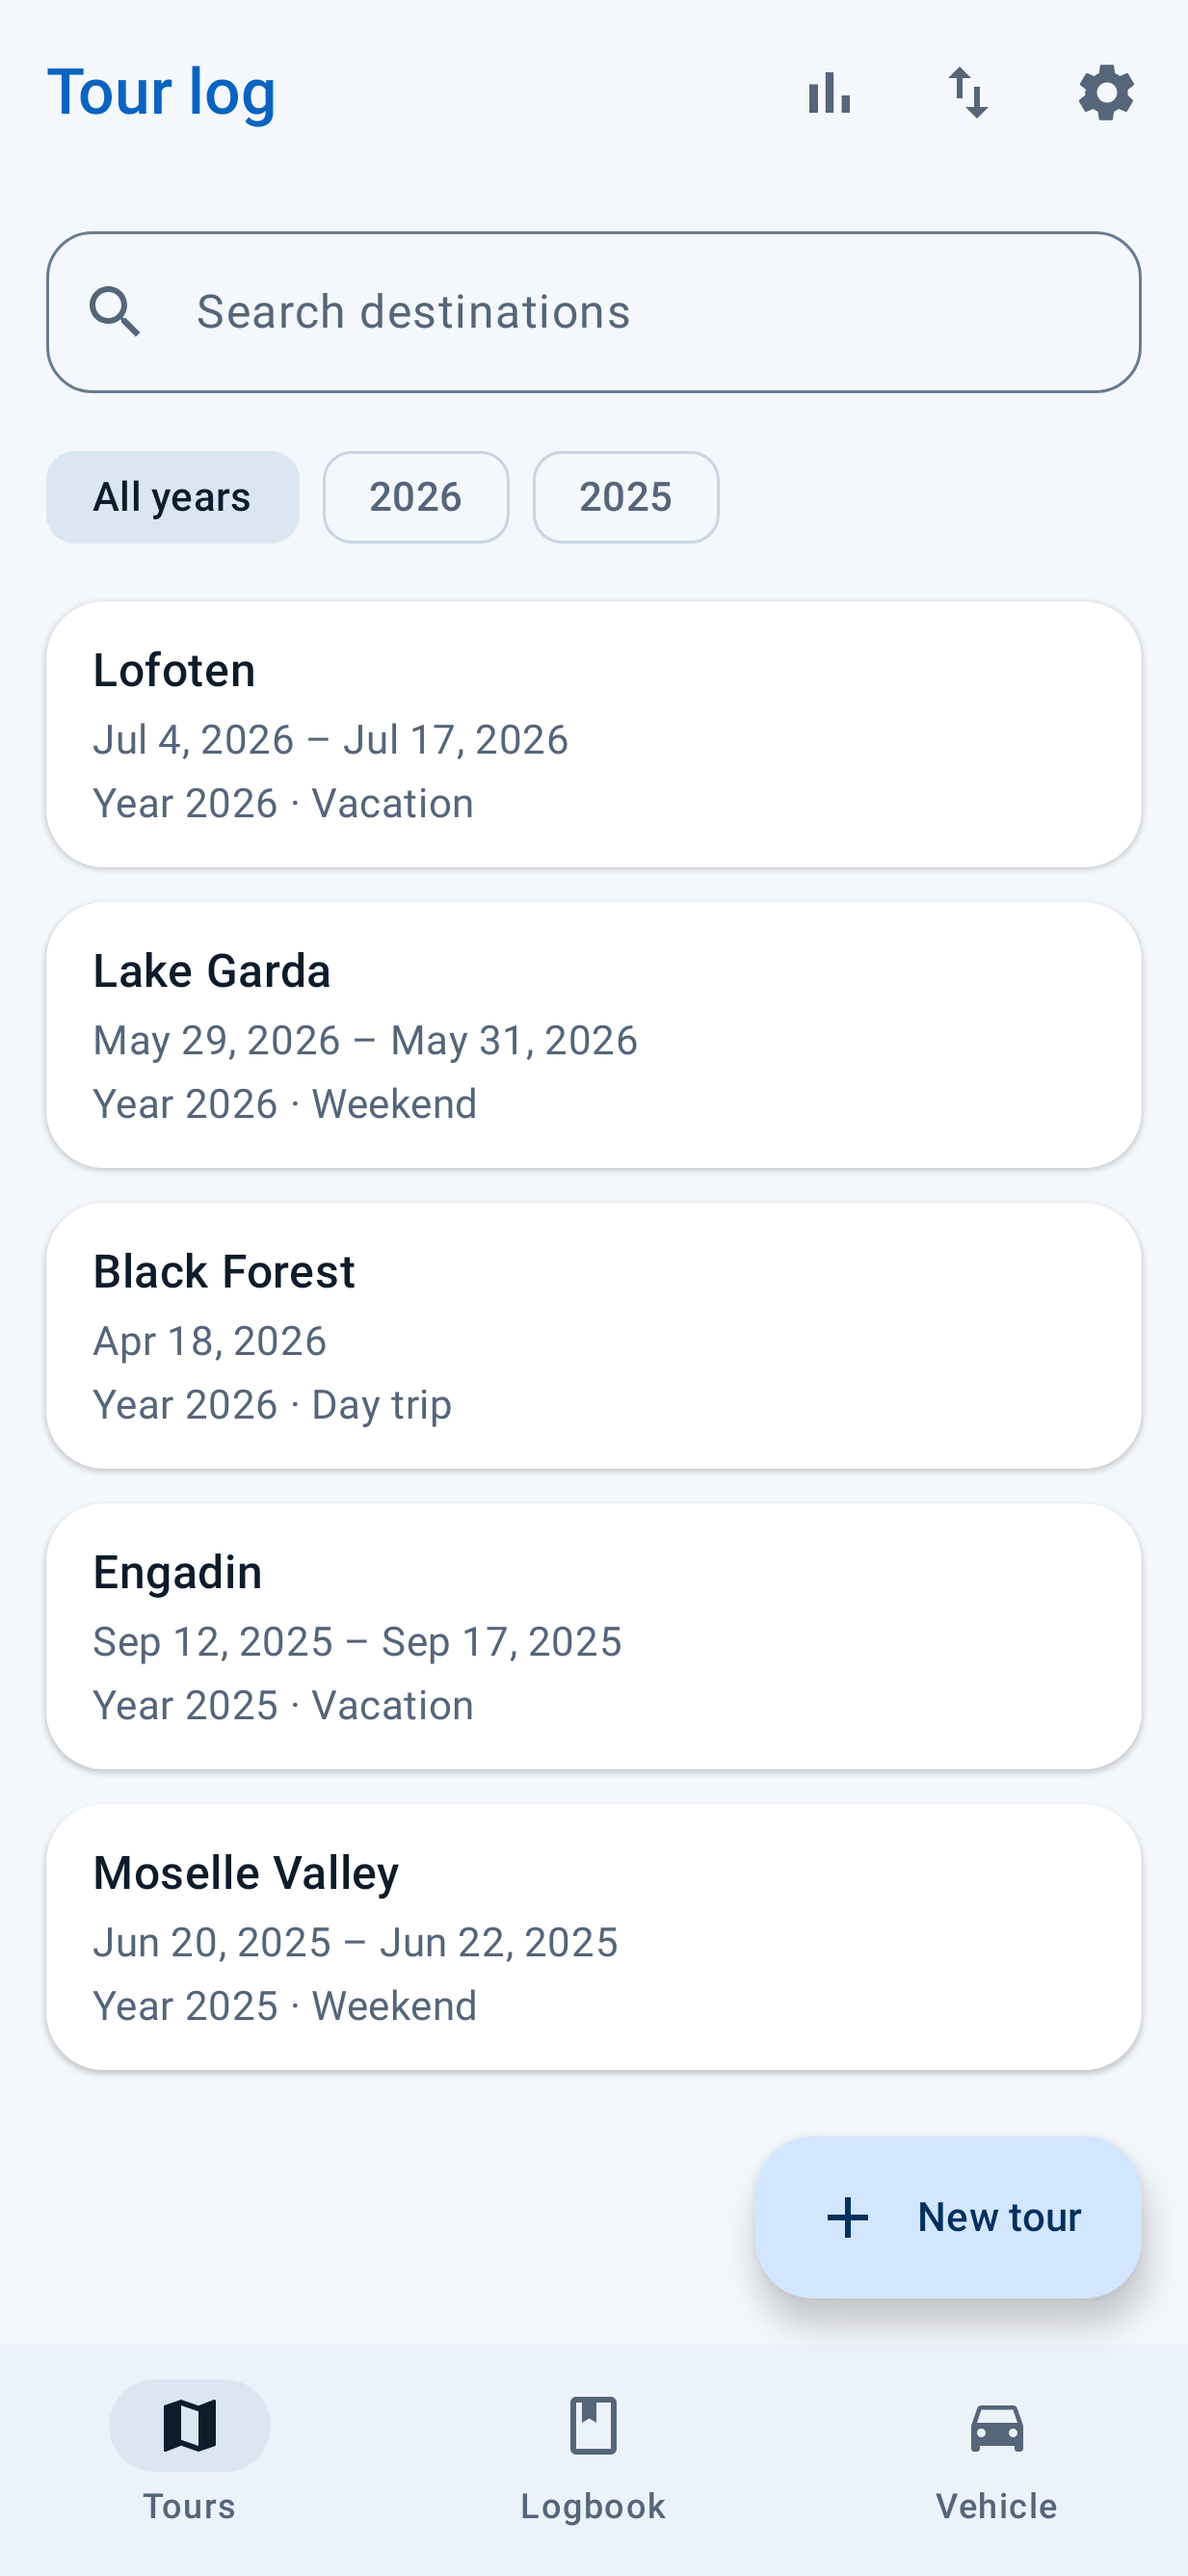
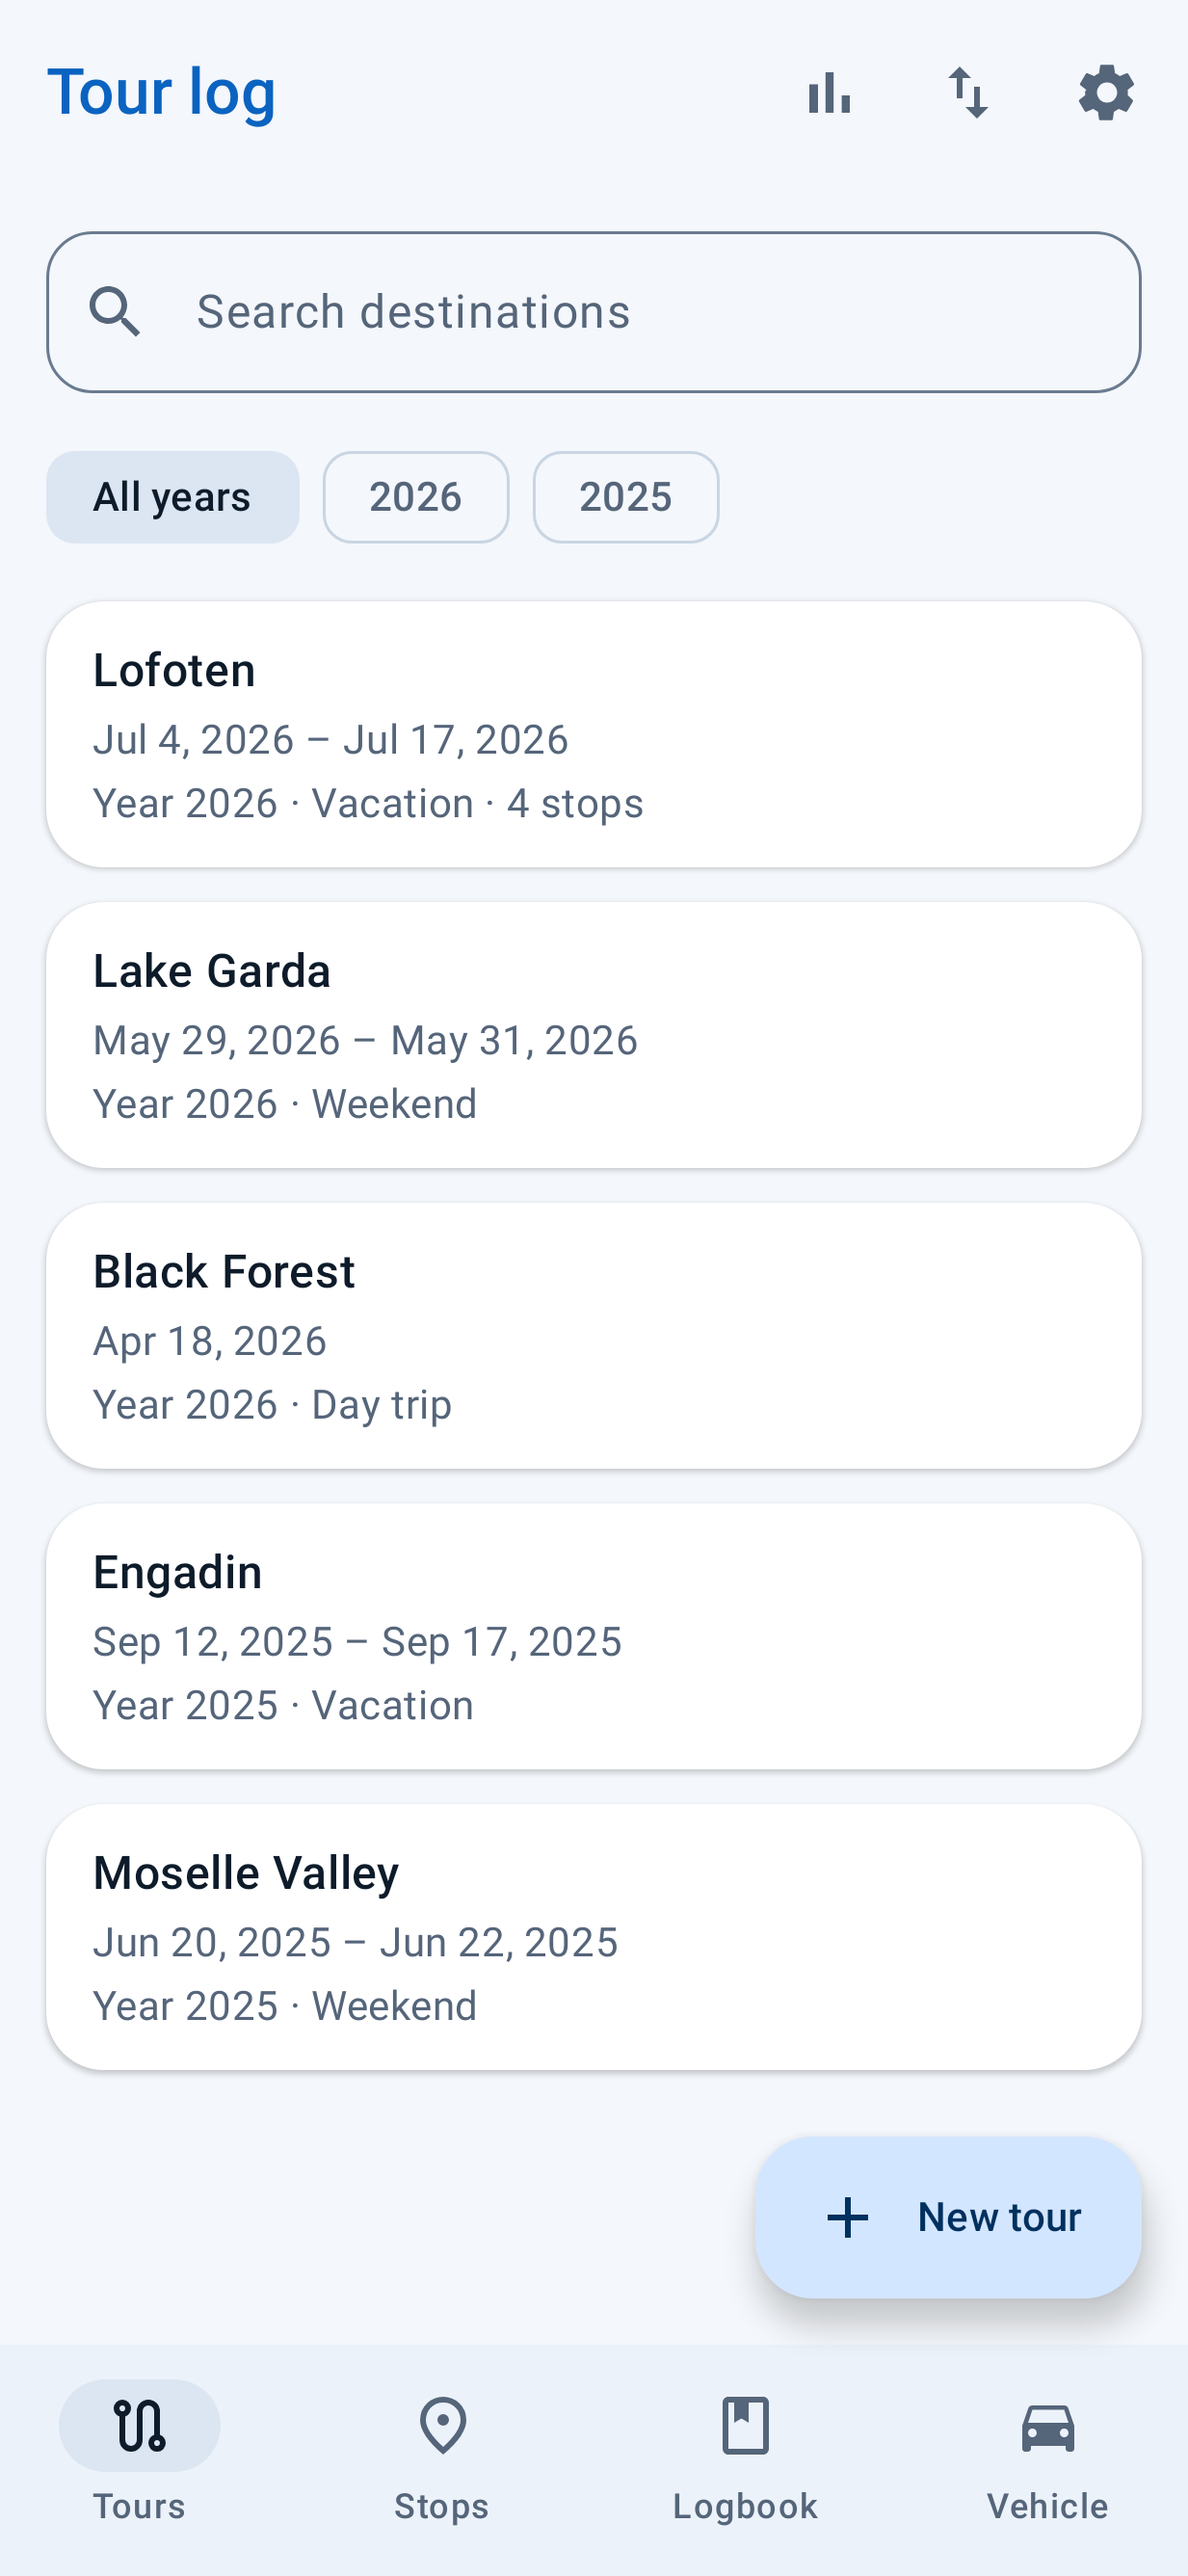
Cap nav label autoSize and regenerate screenshots

diff --git a/app/src/main/java/app/restvolt/camperlog/ui/Navigation.kt b/app/src/main/java/app/restvolt/camperlog/ui/Navigation.kt
@@ -4,6 +4,7 @@ import androidx.compose.foundation.text.TextAutoSize
 import androidx.compose.material3.Badge
 import androidx.compose.material3.BadgedBox
 import androidx.compose.material3.Icon
+import androidx.compose.material3.MaterialTheme
 import androidx.compose.material3.NavigationBar
 import androidx.compose.material3.NavigationBarItem
 import androidx.compose.material3.Text
@@ -557,11 +558,14 @@ private fun CamperLogBottomBar(navController: NavController, current: NavDestina
  */
 @Composable
 private fun NavLabel(text: String) {
+    // maxFontSize muss auf die reguläre Labelgröße gedeckelt werden: ohne das wächst autoSize
+    // auf seinen Standard von 112.sp, weil NavigationBarItem dem Label keine feste Breite vorgibt.
+    val labelSize = MaterialTheme.typography.labelMedium.fontSize
     Text(
         text,
         maxLines = 1,
         softWrap = false,
-        autoSize = TextAutoSize.StepBased(minFontSize = 9.sp),
+        autoSize = TextAutoSize.StepBased(minFontSize = 9.sp, maxFontSize = labelSize),
     )
 }
 

diff --git a/app/src/test/java/app/restvolt/camperlog/ui/ReadmeScreenshots.kt b/app/src/test/java/app/restvolt/camperlog/ui/ReadmeScreenshots.kt
@@ -91,6 +91,8 @@ class ReadmeScreenshots {
         capture("5_vehicle")
         compose.onNodeWithText("Logbook").performClick()
         capture("6_logbook")
+        compose.onNodeWithText("Stops").performClick()
+        capture("7_stops")
     }
 
     private fun capture(name: String) {
